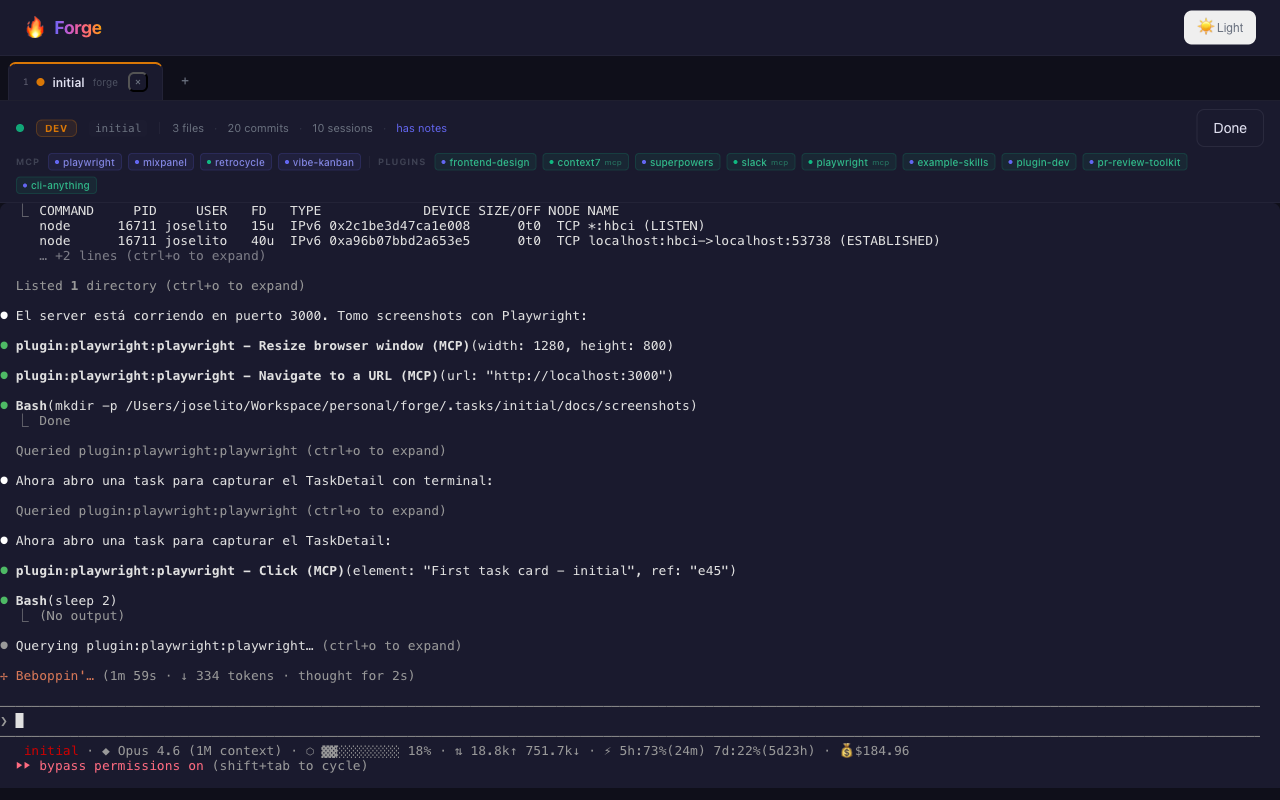
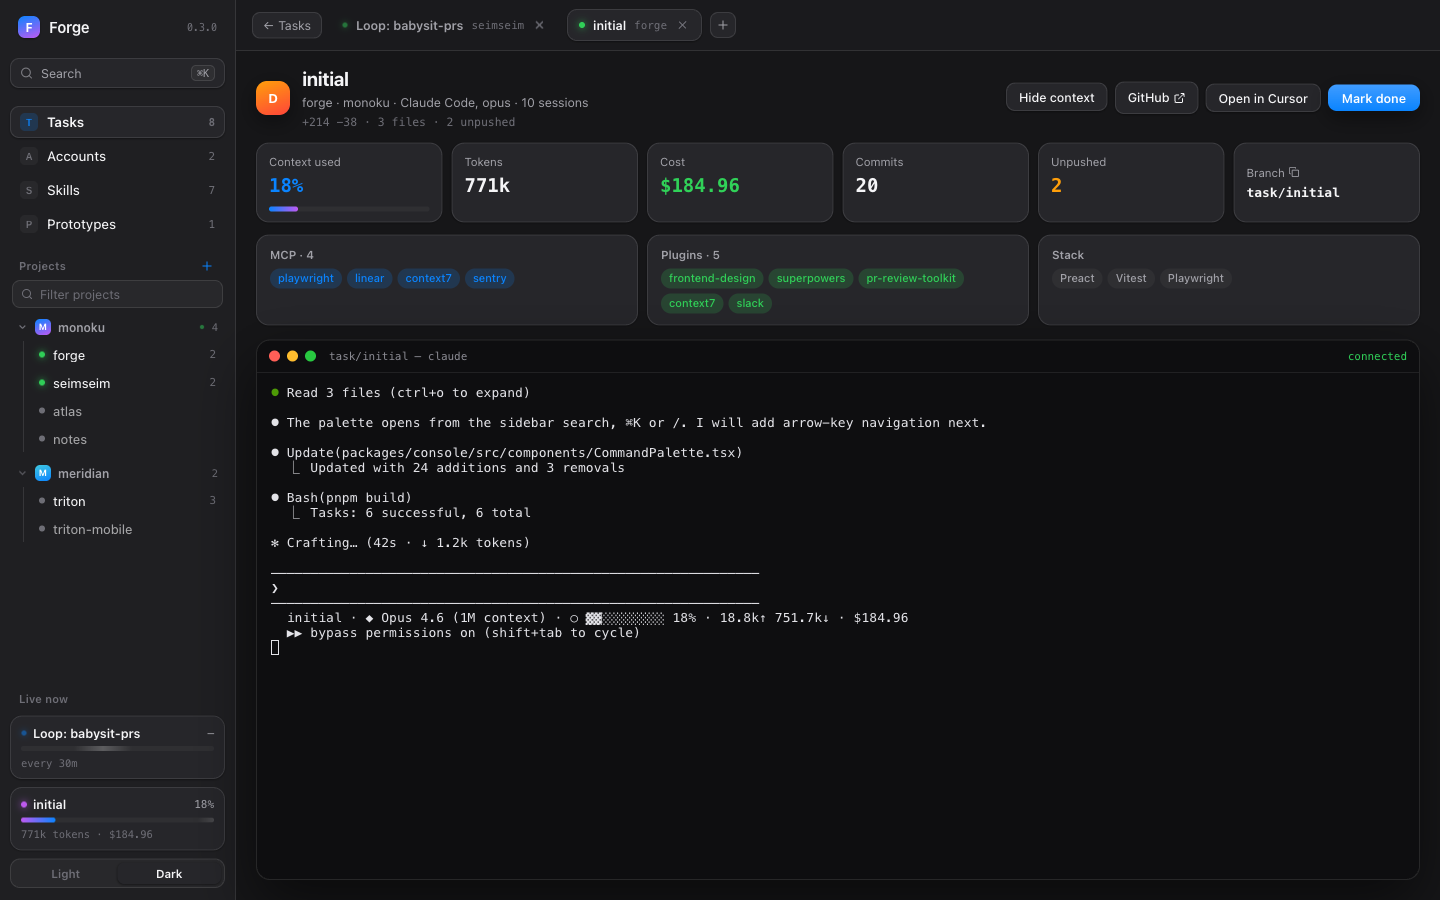
docs: README and screenshots for the redesigned console

diff --git a/README.md b/README.md
@@ -15,10 +15,10 @@
 
 **Where ideas are shaped into software.**
 
-[![MIT License](https://img.shields.io/badge/license-MIT-6366f1?style=for-the-badge)](LICENSE)
-[![Node.js](https://img.shields.io/badge/node-%3E%3D20-10b981?style=for-the-badge&logo=node.js&logoColor=white)](https://nodejs.org)
+[![MIT License](https://img.shields.io/badge/license-MIT-0a84ff?style=for-the-badge)](LICENSE)
+[![Node.js](https://img.shields.io/badge/node-%3E%3D20-30d158?style=for-the-badge&logo=node.js&logoColor=white)](https://nodejs.org)
 [![TypeScript](https://img.shields.io/badge/typescript-strict-3178C6?style=for-the-badge&logo=typescript&logoColor=white)](https://typescriptlang.org)
-[![PRs Welcome](https://img.shields.io/badge/PRs-welcome-f59e0b?style=for-the-badge)](CONTRIBUTING.md)
+[![PRs Welcome](https://img.shields.io/badge/PRs-welcome-ff9f0a?style=for-the-badge)](CONTRIBUTING.md)
 
 <br />
 
@@ -38,15 +38,18 @@
 
 Forge is the **visual frontend for CW**. Instead of running `cw work`, `cw review`, `cw spaces` in the terminal, you get a web dashboard with:
 
-- **Task list** with filters by account, project, and type (dev/review/loop/general)
+- **Start from anything** — paste a pull request, a Linear or Notion link, or type a name; Forge picks review or dev and starts it
+- **Task list** — most recently opened first, or grouped by project, with type, harness and done filters
+- **Sidebar** — sections, projects grouped by account with a filter, and a card per live session with its context meter
 - **Any harness** — run a task on Claude Code, Codex, Pi or OpenCode and see which one each session uses (needs CW 0.3.0)
-- **Accounts** — an account × harness matrix with one-click Connect; Codex logs in with a device code, no terminal
-- **Multi-tab terminal sessions** — open multiple agent sessions side by side
-- **Project info** — auto-detected stack, MCPs, plugins at a glance
-- **One-click actions** — start tasks, review PRs, mark done, create, register, move and delete projects
-- **Skills** — browse and edit global, account and project skills, install from skills.sh, or start a session that writes one
+- **Task detail** — the agent's terminal with context used, tokens and cost read from its status line, commits, unpushed work, MCPs, plugins and stack, plus GitHub and Open in editor
+- **Multi-tab sessions** — keep several agents open; tabs stay connected while you browse the list
+- **Command palette** — ⌘K or `/` to jump to a session, a task, a project or a command
+- **Accounts** — one card per account with each harness's status and one-click Connect; Codex logs in with a device code, no terminal
+- **Skills** — browse and edit global, account and project skills side by side, install from skills.sh, or start a session that writes one
 - **Prototypes** — a sandbox with its own dev server to try an idea, share it as a PR or graduate it to a dev task
-- **Keyboard shortcuts** — Cmd+1..5, Cmd+W, Cmd+L for tab navigation
+- **Projects** — create, register, move and delete projects without leaving the dashboard
+- **Dark and light themes** — system fonts, reduced-motion aware, and a layout that folds into an icon rail or an overlay on narrow windows
 
 It reads from `~/.cw/` (sessions, projects, accounts, skills) and from `~/.claude/` (MCPs, plugins, settings).
 
@@ -54,20 +57,57 @@ It reads from `~/.cw/` (sessions, projects, accounts, skills) and from `~/.claud
 
 ## Screenshots
 
-### Task List
-Filter tasks by account, project, type. Quick-launch buttons for new work.
+> Screenshots use demo data.
 
-![Task List](docs/screenshots/task-list.png)
+### Tasks
+Paste a pull request, a ticket or a name into the start card: Forge detects the type and starts it on the right project and harness. Tasks are listed most recently opened first.
+
+![Task list](docs/screenshots/task-list.png)
+
+<table>
+  <tr>
+    <td width="50%"><img src="docs/screenshots/task-list-by-project.png" alt="Tasks grouped by project" /><br /><sub><b>By project</b> — one card per project with its account and stack</sub></td>
+    <td width="50%"><img src="docs/screenshots/task-list-light.png" alt="Task list in the light theme" /><br /><sub><b>Light theme</b> — switch from the sidebar or with ⌘J</sub></td>
+  </tr>
+</table>
 
 ### Task Detail
-Interactive terminal with Claude Code, git stats, MCP/plugin info, and session metadata.
+The agent's terminal, framed, with the metrics its status line reports, the task's commits and unpushed work, the branch (click to copy), and the MCPs, plugins and stack behind it.
 
-![Task Detail](docs/screenshots/task-detail.png)
+![Task detail](docs/screenshots/task-detail.png)
 
-### Project View
-Filter by project to see detected stack, MCPs, and plugins. Manage or delete projects.
+<table>
+  <tr>
+    <td width="50%"><img src="docs/screenshots/tab-menu.png" alt="Add tab menu" /><br /><sub><b>+ menu</b> — start a new task or resume one in another tab</sub></td>
+    <td width="50%"><img src="docs/screenshots/command-palette.png" alt="Command palette" /><br /><sub><b>⌘K palette</b> — live sessions, tasks, projects and commands</sub></td>
+  </tr>
+</table>
 
-![Project Filter](docs/screenshots/project-filter.png)
+### New Task
+A drawer over the list. The type, harness, model and workflow are one click each, and the exact `cw` command is shown before you start.
+
+![New task drawer](docs/screenshots/new-task.png)
+
+### Accounts
+Each account with every harness: connected, API key, local model, or a Connect button.
+
+![Accounts](docs/screenshots/accounts.png)
+
+### Skills
+The skill list and its editor side by side, with references as tabs and a search that falls through to skills.sh.
+
+![Skills](docs/screenshots/skills.png)
+
+<table>
+  <tr>
+    <td width="50%"><img src="docs/screenshots/project-filter.png" alt="Project view" /><br /><sub><b>Project view</b> — pick a project in the sidebar to see its tasks, MCPs and actions</sub></td>
+    <td width="50%"><img src="docs/screenshots/create-project.png" alt="Add a project" /><br /><sub><b>Add a project</b> — create one with <code>cw create</code> or register an existing repo</sub></td>
+  </tr>
+  <tr>
+    <td width="50%"><img src="docs/screenshots/prototype.png" alt="Prototype sandbox" /><br /><sub><b>Prototypes</b> — generate a UI in a sandbox, share it, graduate it</sub></td>
+    <td width="50%" align="center"><img src="docs/screenshots/mobile.png" alt="Narrow window" width="220" /><br /><sub><b>Narrow windows</b> — the sidebar becomes an overlay</sub></td>
+  </tr>
+</table>
 
 <br />
 
@@ -137,7 +177,7 @@ pnpm dev
 ```
 ┌─────────────────────────────────────────────────────┐
 │              FORGE CONSOLE (Preact + UnoCSS)         │
-│         ~100KB gzipped · dark/light themes           │
+│    ~130KB gzipped with xterm.js · dark/light themes  │
 └───────────────────────┬──────────────────────────────┘
                         │ HTTP + WebSocket
 ┌───────────────────────┼──────────────────────────────┐
@@ -174,7 +214,7 @@ pnpm dev
 | Database | better-sqlite3 (local) / PostgreSQL (team) |
 | CLI | Commander.js |
 | Build | Turborepo |
-| Tests | Vitest (248 tests in `packages/core`) |
+| Tests | Vitest (349 tests in `packages/core`) |
 | Language | TypeScript (strict) |
 
 ### Monorepo Structure
@@ -182,7 +222,7 @@ pnpm dev
 ```
 packages/
   core/       → Hono server, CW reader, PTY manager, harness logins, skills, prototypes, DB
-  console/    → Preact dashboard (app, pages, components, hooks)
+  console/    → Preact dashboard (app, pages, components, hooks, design tokens)
   ui/         → Shared components (Terminal, StatusCard, ActionButton, Toast...)
   sdk/        → Module SDK (definePanel, types)
   cli/        → CLI commands (forge init/console/doctor/module/project/run)
@@ -205,28 +245,40 @@ modules/
 The dashboard is a Preact SPA with this component structure:
 
 ```
-App
-├── useTabManager (tab state, sessionStorage, keyboard shortcuts)
-├── useTaskFilters (account/project/type/harness filters, derived data)
+App → Shell (sidebar + main column, theme)
+├── useTabManager (tab state, sessionStorage, ⌘1–5 / ⌘W / ⌘L)
+├── useTaskFilters (project/type/harness filters, derived data)
 ├── useHarnesses (shared `cw doctor` store, 3 s polling)
+├── useTerminalMetrics (context, tokens and cost from each tab's status line)
 │
-├── List view
-│   ├── OpenTabsBanner (shows tabs open in background)
-│   ├── TaskList
-│   │   ├── Filter pills (account, project, type, harness)
-│   │   ├── TaskCard / DoneTaskRow (with harness badge)
-│   │   └── ProjectBanner (stack, MCPs, plugins, delete)
-│   ├── NewTask (harness picker) → PrototypePanel
-│   ├── CreateProjectModal (directory picker)
-│   ├── Accounts (account × harness matrix, device login)
-│   └── Skills
-│
-└── Tabs view
-    ├── TabBar (tab bar + add menu)
-    └── TaskDetail (terminal + git stats + MCP info)
+├── Sidebar → nav, projects by account (filter, fold), live session cards, appearance
+├── Views
+│   ├── TaskList → StartCard (type inference), filters, Recent / By project, ProjectBanner
+│   ├── Accounts → account cards, device login, API key
+│   ├── Skills → list + editor, create, skills.sh search
+│   └── PrototypePanel → input, preview, share, graduate
+├── Tabs (kept mounted while the list is shown)
+│   ├── TabBar → pill tabs, + menu
+│   └── TaskDetail → identity, metric strip, context panel, terminal
+├── NewTask drawer → HarnessPicker
+├── CommandPalette (⌘K, /)
+└── CreateProjectModal → DirectoryPicker
 ```
 
-Shared config lives in `config/types.ts` (type colors, labels, helpers).
+Design tokens (colors, shadows, motion) live in `styles/theme.css` for both themes; type colors and helpers live in `config/types.ts`.
+
+### Keyboard
+
+| Keys | Action |
+|------|--------|
+| `⌘K` or `/` | Command palette |
+| `N` | New task |
+| `P` | Add a project |
+| `⌘J` | Switch light and dark |
+| `⌘1`–`⌘5` | Go to a tab |
+| `⌘←` `⌘→` | Previous or next tab |
+| `⌘W` | Close the tab |
+| `⌘L` | Back to the task list |
 
 <br />
 
